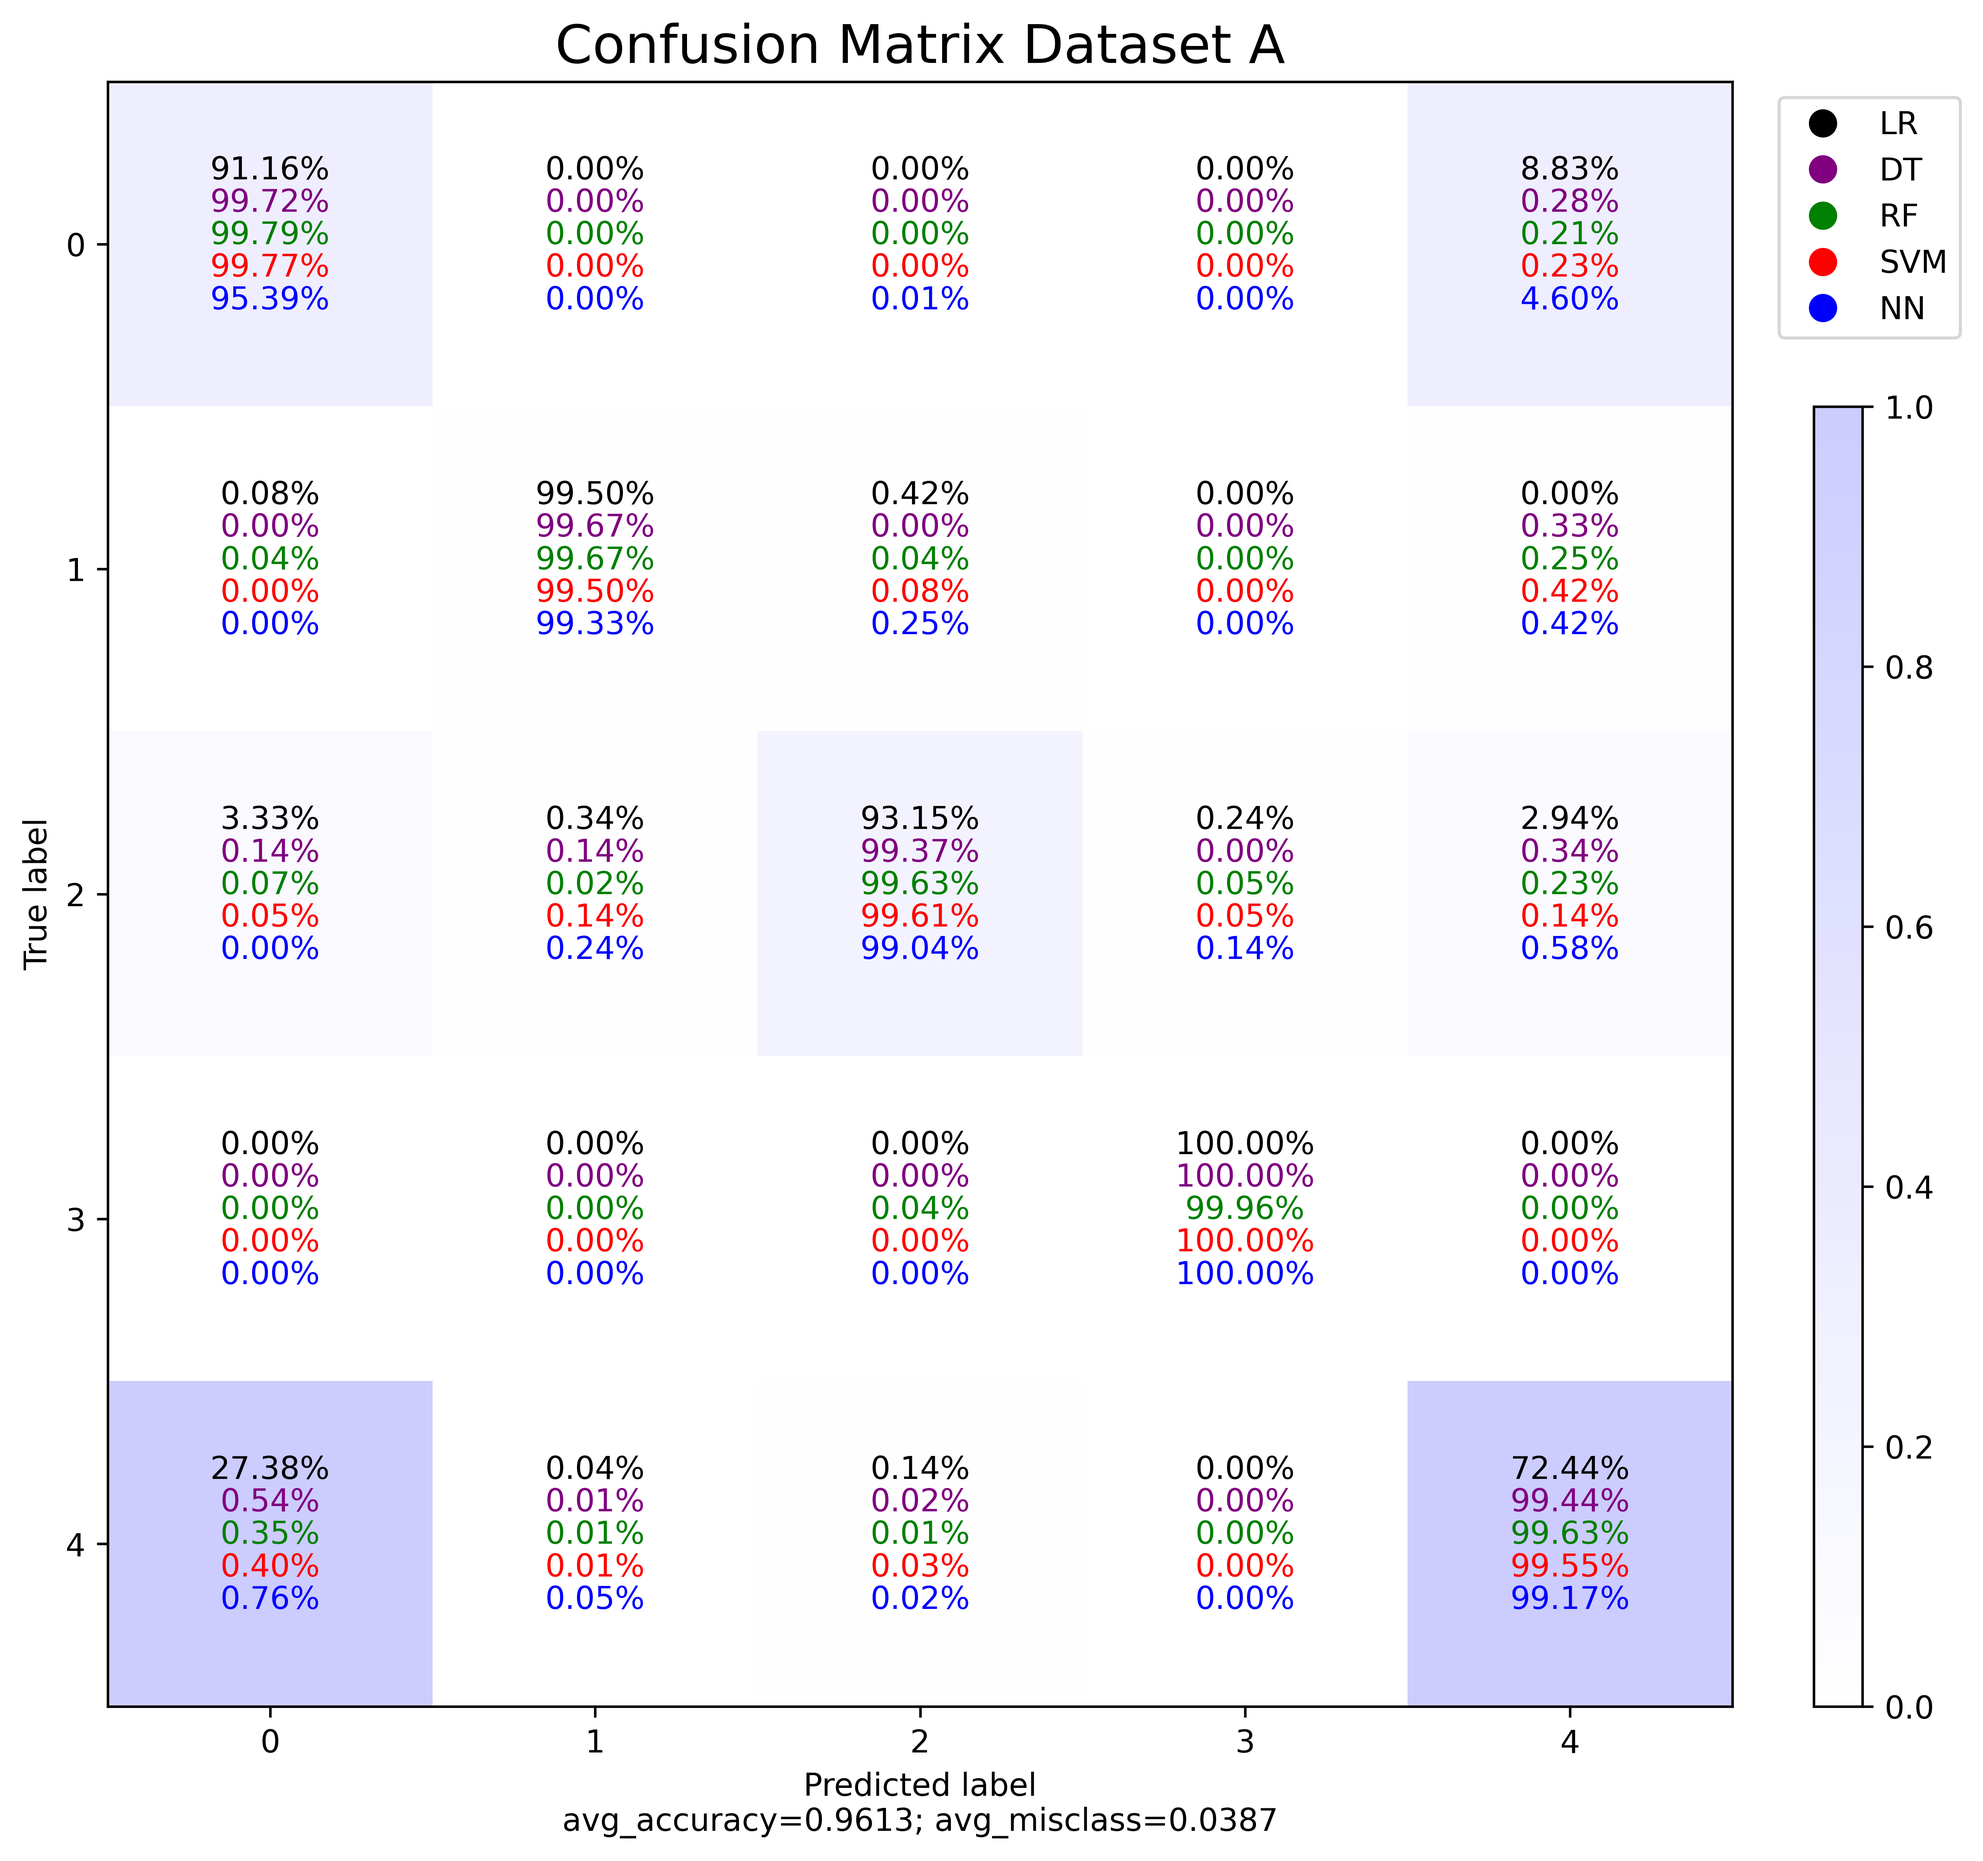
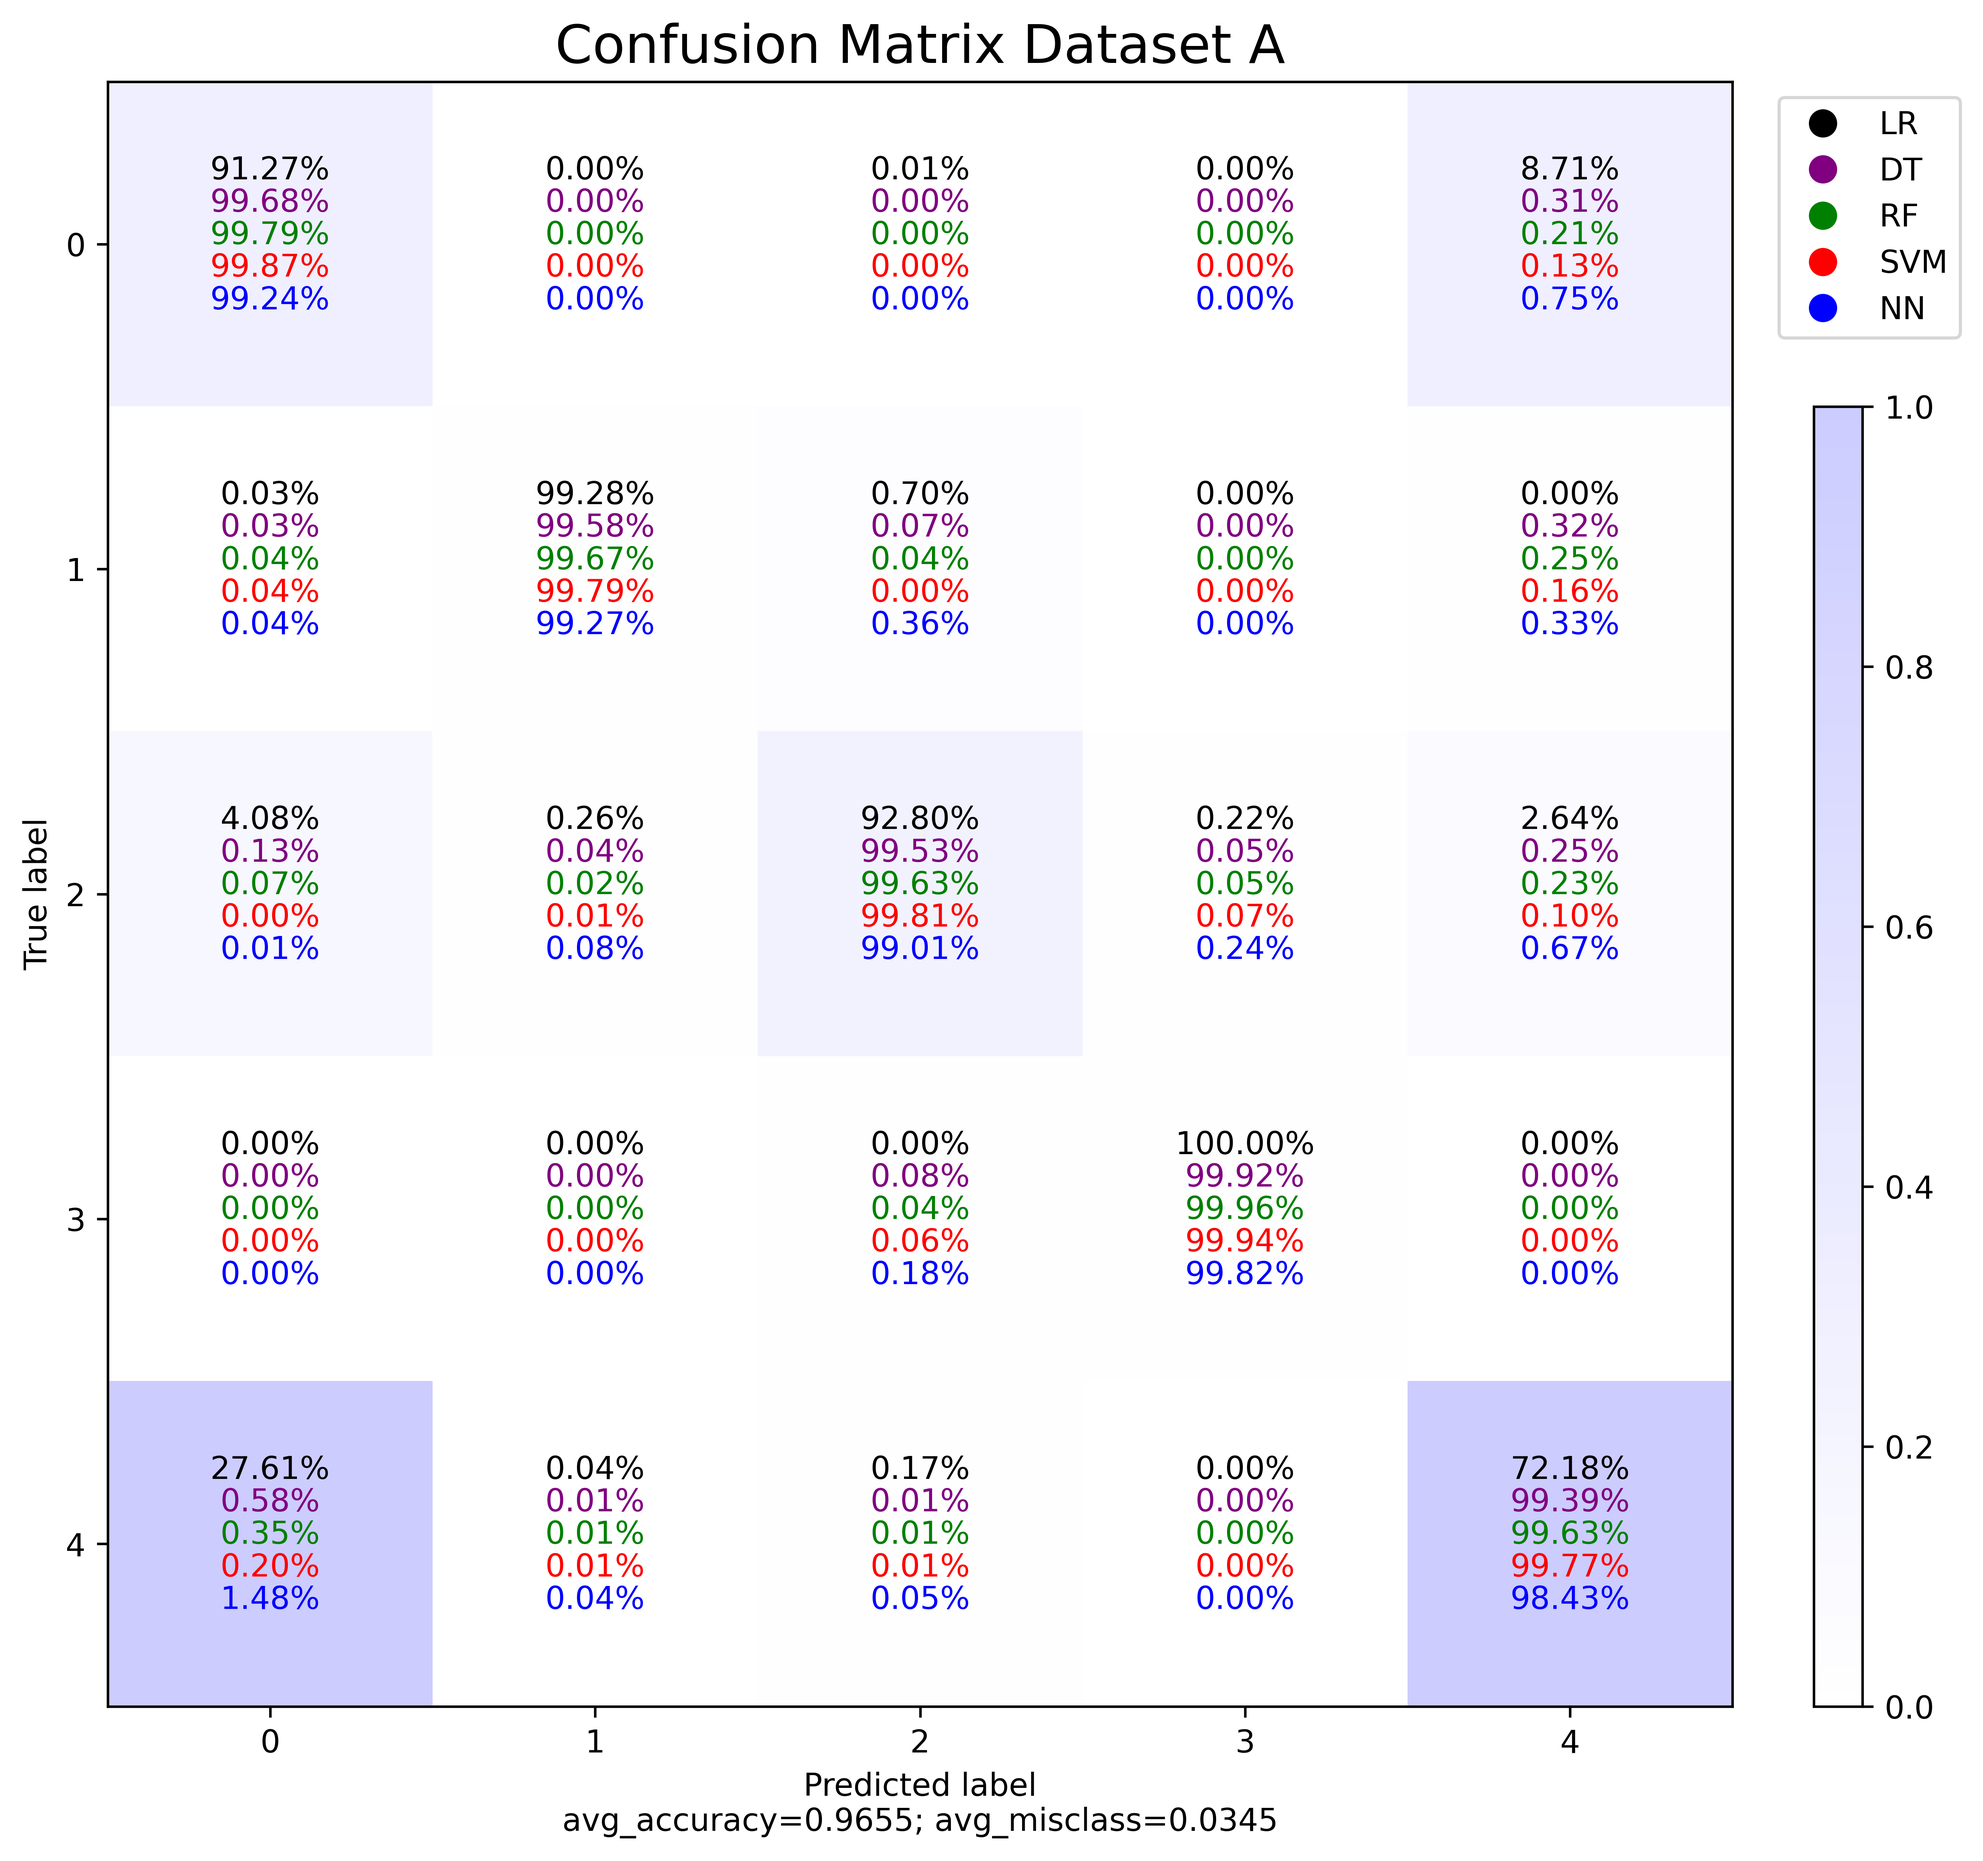
working on aggregated table for metrics

diff --git a/Scripts/analysis/Visualisation.py b/Scripts/analysis/Visualisation.py
@@ -5,7 +5,7 @@ Created on Sat May 25 23:48:26 2024
 @author: Kenny
 """
 
-#%% Plotting CM
+
     
 # Imports
 from Scripts.util import (load_object_from_file,
@@ -16,56 +16,138 @@ import pandas as pd
 import numpy as np
 import itertools
 
+def extract_metrics(report,accuracy,model_name):
+    macro_avg_precision = report.loc['macro avg', 'precision']
+    weighted_avg_precision = report.loc['weighted avg', 'precision']
+    macro_avg_recall = report.loc['macro avg', 'recall']
+    weighted_avg_recall = report.loc['weighted avg', 'recall']
+    macro_avg_f1 = report.loc['macro avg', 'f1-score']
+    weighted_avg_f1 = report.loc['weighted avg', 'f1-score']
+    
+    metrics = {
+        'Model': model_name,
+        'Accuracy': accuracy,
+        'Macro Avg Precision': macro_avg_precision,
+        'Weighted Avg Precision': weighted_avg_precision,
+        'Macro Avg Recall': macro_avg_recall,
+        'Weighted Avg Recall': weighted_avg_recall,
+        'Macro Avg F1-Score': macro_avg_f1,
+        'Weighted Avg F1-Score': weighted_avg_f1
+    }
+    return metrics
+
+def calculate_accuracy(cm):
+    cm=cm.values
+    accuracy = np.trace(cm) / np.sum(cm).astype('float')
+    return accuracy
+
 #%%Plot Confusion Matrix
 
 # Shading True (Dataset A)
 shading = True
 
 # Load confusion matrix (from gridsearch)
-cm_LR = load_object_from_file("Grid-search_CM_LR.pk1",
+cm_LR = load_object_from_file("TestTrain_CM_LR.pk1",
                               to_file="LR", shading=shading)
 
-cm_DT = load_object_from_file("Grid-search_CM_DT.pk1",
+cm_DT = load_object_from_file("TestTrain_CM_DT.pk1",
                               to_file="DT", shading=shading)
 
 cm_RF = load_object_from_file("TestTrain_CM_RF.pk1",
                               to_file="RF", shading=shading)
 
-cm_SVM = load_object_from_file("Grid-search_CM_SVM.pk1",
+cm_SVM = load_object_from_file("TestTrain_CM_SVM.pk1",
                                to_file="SVM", shading=shading)
 
-cm_NN = load_object_from_file("Grid-search_CM_NN.pk1",
+cm_NN = load_object_from_file("TestTrain_CM_NN.pk1",
                               to_file="NN", shading=shading)
 
 plot_aggregated_confusion_matrix(cm_LR, cm_DT, cm_RF, cm_SVM, cm_NN,
                                  title="Confusion Matrix Dataset A",to_file="FINAL",
                                  show_plot=True)
 
-# Shading False (Dataset B)
+# Calculate each single accuracy (for later)
+accuracy_LR_T = calculate_accuracy(cm_LR)
+accuracy_DT_T = calculate_accuracy(cm_DT)
+accuracy_RF_T = calculate_accuracy(cm_RF)
+accuracy_SVM_T = calculate_accuracy(cm_SVM)
+accuracy_NN_T = calculate_accuracy(cm_NN)
+
+
+## Shading False (Dataset B)
 shading = False
 
 # Load confusion matrix (from gridsearch)
-cm_LR = load_object_from_file("Grid-search_CM_LR.pk1",
+cm_LR = load_object_from_file("TestTrain_CM_LR.pk1",
                               to_file="LR", shading=shading)
 
-cm_DT = load_object_from_file("Grid-search_CM_DT.pk1",
+cm_DT = load_object_from_file("TestTrain_CM_DT.pk1",
                               to_file="DT", shading=shading)
 
 cm_RF = load_object_from_file("TestTrain_CM_RF.pk1",
                               to_file="RF", shading=shading)
 
-cm_SVM = load_object_from_file("Grid-search_CM_SVM.pk1",
+cm_SVM = load_object_from_file("TestTrain_CM_SVM.pk1",
                                to_file="SVM", shading=shading)
 
-cm_NN = load_object_from_file("Grid-search_CM_NN.pk1",
+cm_NN = load_object_from_file("TestTrain_CM_NN.pk1",
                               to_file="NN", shading=shading)
 
 plot_aggregated_confusion_matrix(cm_LR, cm_DT, cm_RF, cm_SVM, cm_NN,
                                  title="Confusion Matrix Dataset B",to_file="FINAL",
                                  show_plot=True)
 
+# Calculate each single accuracy (for later)
+accuracy_LR_F = calculate_accuracy(cm_LR)
+accuracy_DT_F = calculate_accuracy(cm_DT)
+accuracy_RF_F = calculate_accuracy(cm_RF)
+accuracy_SVM_F = calculate_accuracy(cm_SVM)
+accuracy_NN_F = calculate_accuracy(cm_NN)
+
+
 #%% Big tables!
 
+# shading True (Dataset A)
+shading = True
 
+#load in reports
+report_LR = load_object_from_file("TestTrain_report_LR.pk1",
+                                   to_file="LR",shading=shading)
+
+report_DT = load_object_from_file("TestTrain_report_DT.pk1",
+                                   to_file="DT",shading=shading)
+
+report_RF = load_object_from_file("TestTrain_report_RF.pk1",
+                                   to_file="RF",shading=shading)
+
+report_SVM = load_object_from_file("TestTrain_report_SVM.pk1",
+                                   to_file="SVM",shading=shading)
+
+report_NN = load_object_from_file("TestTrain_report_NN.pk1",
+                                   to_file="NN",shading=shading)
+
+#extract metrics
+metrics_LR=extract_metrics(report_LR,accuracy_LR_T, "LR")
+metrics_DT=extract_metrics(report_DT,accuracy_DT_T, "DT")
+metrics_RF=extract_metrics(report_RF,accuracy_RF_T, "RF")
+metrics_SVM=extract_metrics(report_SVM,accuracy_SVM_T, "SVM")
+metrics_NN=extract_metrics(report_NN, accuracy_NN_T, "NN")
+
+#Combine data
+metrics_data=[metrics_LR,metrics_DT,metrics_RF,metrics_SVM,metrics_NN]
+
+#Create new dataframe
+metrics_df = pd.DataFrame(metrics_data)
+
+#Express weighted scores as difference to macro scores
+metrics_df["Weighted Avg Precision"]=metrics_df["Weighted Avg Precision"]- metrics_df["Macro Avg Precision"]
+metrics_df["Weighted Avg Recall"]=metrics_df["Weighted Avg Recall"]- metrics_df["Macro Avg Recall"]
+metrics_df["Weighted Avg F1-Score"]=metrics_df["Weighted Avg F1-Score"]- metrics_df["Macro Avg F1-Score"]
+
+#*100 for percentage values and round to two values after decimal point
+metrics_df.iloc[:, 1:] = metrics_df.iloc[:, 1:] * 100
+metrics_df.iloc[:,1:]=metrics_df.iloc[:,1:].round(2)
+
+#shading False (Dataset B)
 
 
